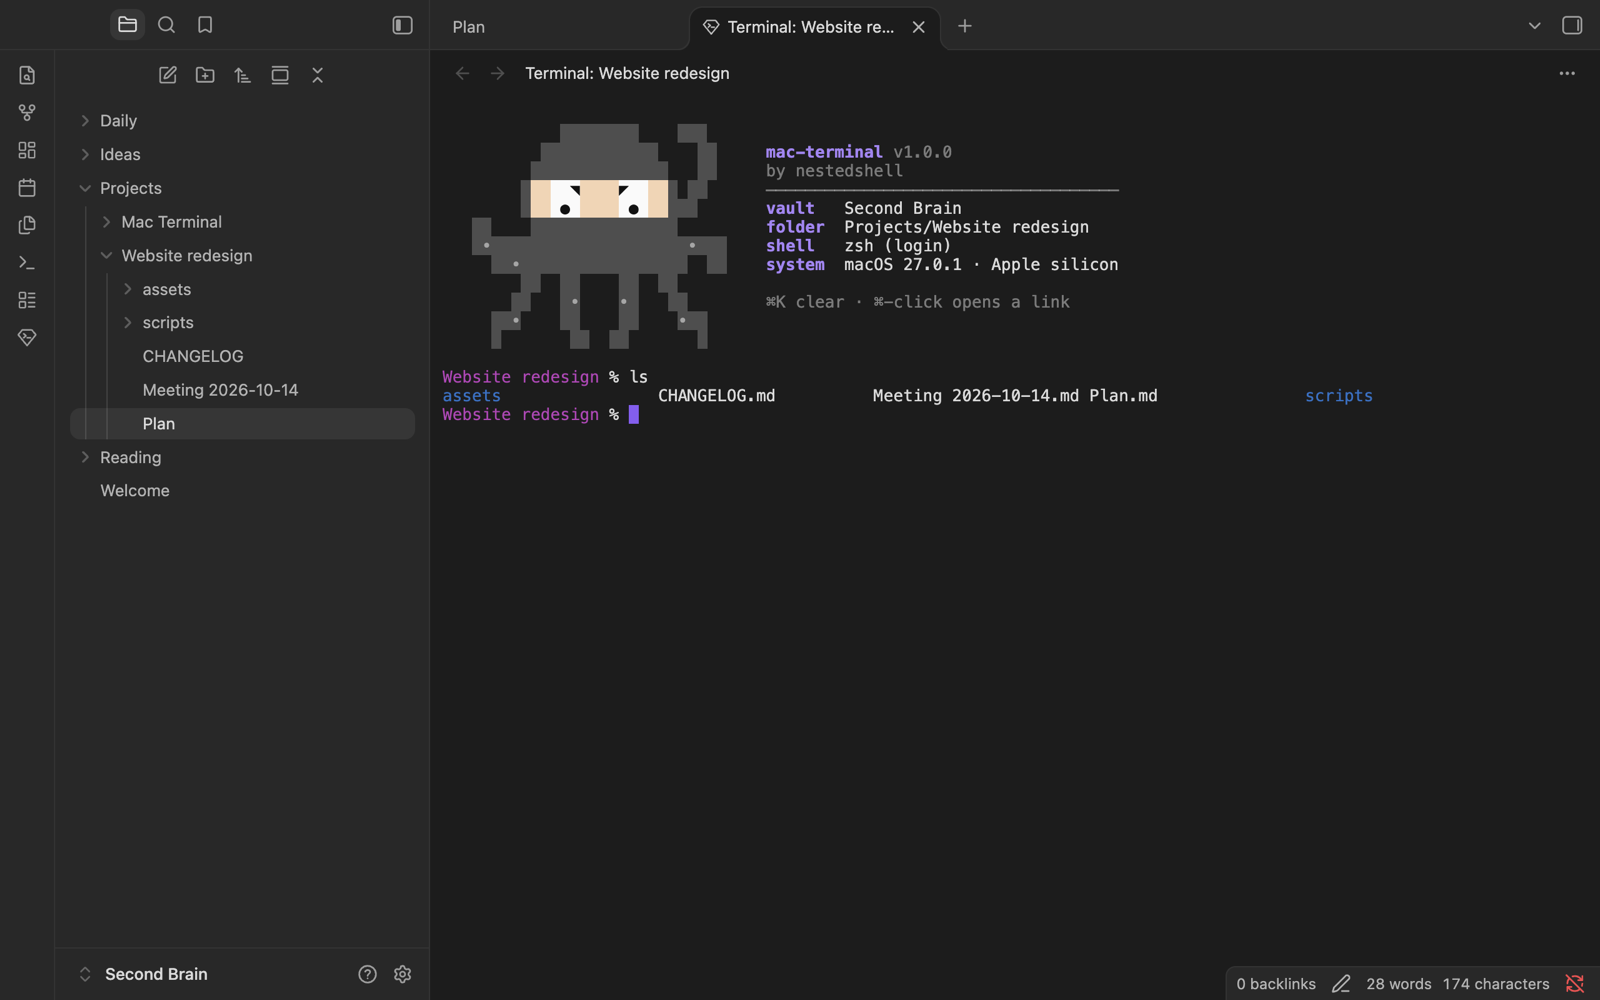
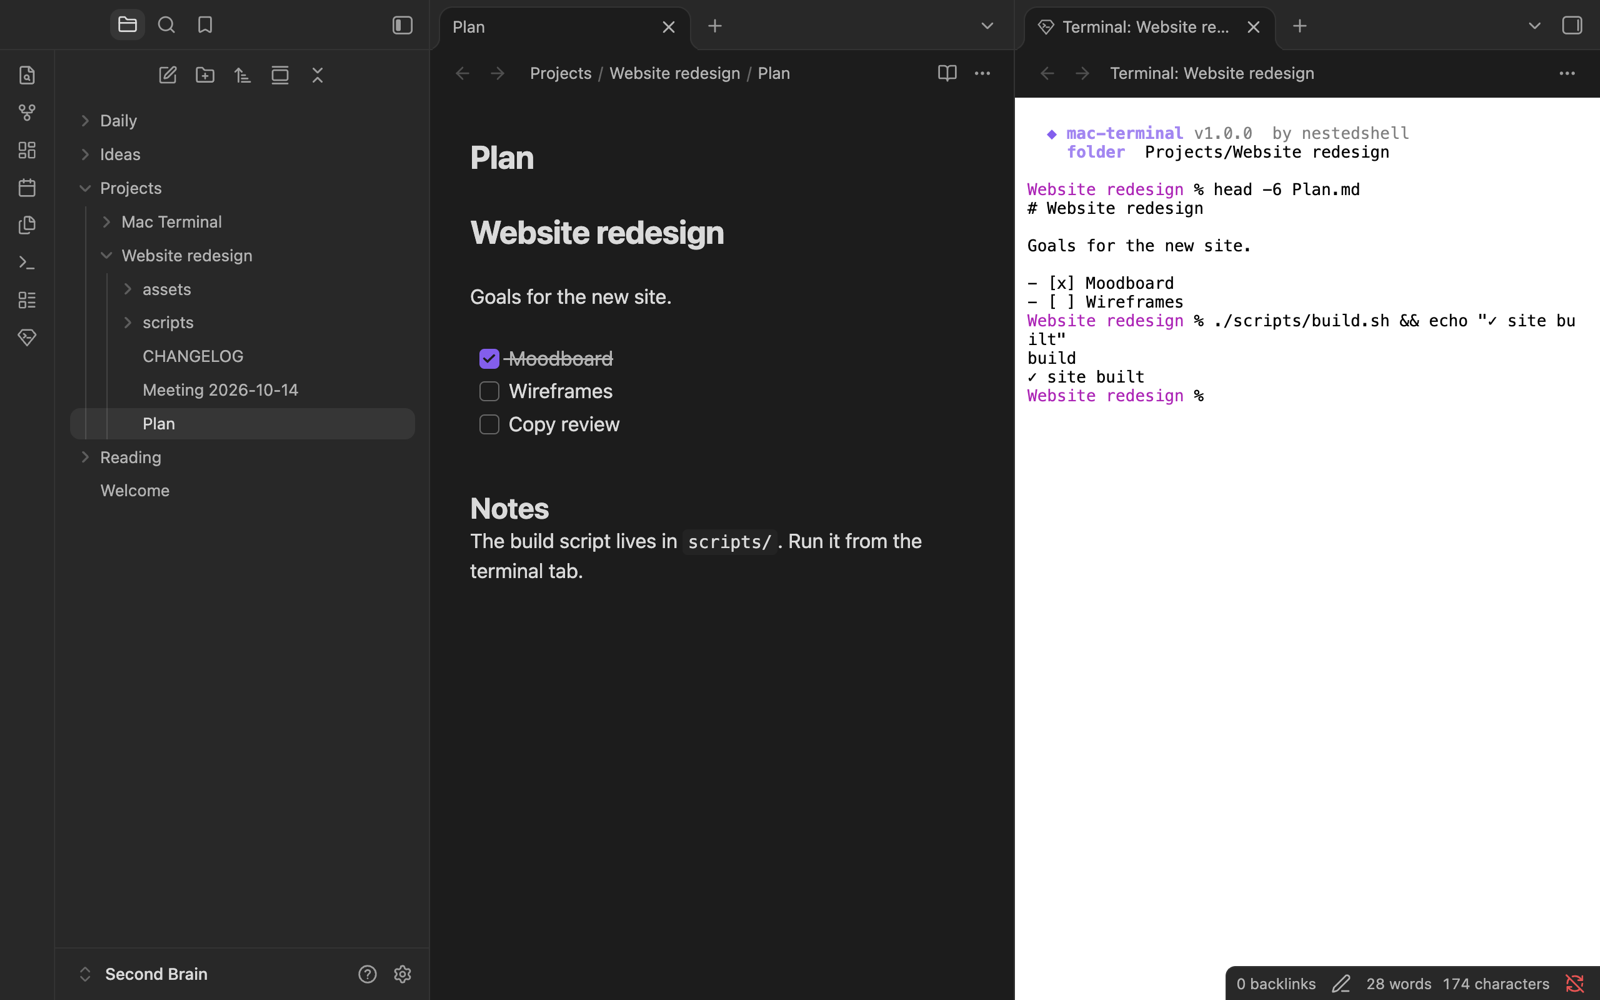
Open terminals in a split next to the note, add release packaging
- Terminals now open by default in a split beside the note, side by side
  or stacked (Settings > Open terminals in). A terminal opened from another
  terminal joins its tab group, and an empty pane is reused.
- npm run package builds dist/mac-terminal-<version>.zip for the Releases page.
- README: install by dragging the plugin folder, new screenshots, Obsidian
  Sync note.
- Helper errors explain how to fix a zip install, not only npm run install-plugin.
- Manifest description matches the split default.

diff --git a/src/main.ts b/src/main.ts
@@ -1,4 +1,4 @@
-import { addIcon, FileSystemAdapter, Notice, Platform, Plugin, TFile, TFolder, type TAbstractFile, type WorkspaceLeaf } from 'obsidian';
+import { addIcon, FileSystemAdapter, Notice, Platform, Plugin, TFile, TFolder, View, type SplitDirection, type TAbstractFile, type WorkspaceLeaf } from 'obsidian';
 import { randomUUID } from 'crypto';
 import * as path from 'path';
 import { toHex, parseColor } from './color';
@@ -135,15 +135,44 @@ export default class MacTerminalPlugin extends Plugin {
 		return this.openTerminal(this.app.workspace.getActiveFile()?.parent ?? this.app.vault.getRoot());
 	}
 
+	/**
+	 * The pane a new split goes next to: the active one, unless it sits in a sidebar
+	 * (the file explorer, after "Open in terminal"); then the note last worked on.
+	 */
+	private splitTarget(): WorkspaceLeaf | null {
+		const workspace = this.app.workspace;
+		const active = workspace.getActiveViewOfType(View)?.leaf ?? null;
+		if (active) {
+			const root = active.getRoot();
+			if (root !== workspace.leftSplit && root !== workspace.rightSplit) return active;
+		}
+		return workspace.getMostRecentLeaf();
+	}
+
+	/**
+	 * A split next to the note, without splitting the screen again and again: an empty
+	 * pane is reused, and next to a terminal the new one becomes a tab in its group.
+	 */
+	private splitLeaf(direction: SplitDirection): WorkspaceLeaf {
+		const workspace = this.app.workspace;
+		const target = this.splitTarget();
+		if (!target) return workspace.getLeaf('split', direction);
+		const type = target.view.getViewType();
+		if (type === 'empty') return target;
+		// The target is the most recent leaf, which is where Obsidian adds a new tab.
+		if (type === VIEW_TYPE) return workspace.getLeaf('tab');
+		return workspace.createLeafBySplit(target, direction);
+	}
+
 	async openTerminal(folder: TFolder, tag?: Tag): Promise<void> {
 		const workspace = this.app.workspace;
 		let leaf: WorkspaceLeaf;
 		switch (this.settings.openLocation) {
 			case 'right':
-				leaf = workspace.getLeaf('split', 'vertical');
+				leaf = this.splitLeaf('vertical');
 				break;
 			case 'below':
-				leaf = workspace.getLeaf('split', 'horizontal');
+				leaf = this.splitLeaf('horizontal');
 				break;
 			case 'window':
 				leaf = workspace.getLeaf('window');

diff --git a/src/pty.ts b/src/pty.ts
@@ -64,10 +64,10 @@ export function verifyHelper(pluginDir: string, expected: string = MT_PTY_SHA256
 	try {
 		data = readRegularFile(helper, HELPER_MAX_BYTES);
 	} catch {
-		throw new PtyError(`The terminal helper is missing (${HELPER_NAME}). Reinstall the plugin with "npm run install-plugin".`);
+		throw new PtyError(`The terminal helper (${HELPER_NAME}) is missing from the plugin folder. Copy the four files from the release zip into it again (Obsidian Sync doesn't sync the helper), or reinstall with "npm run install-plugin".`);
 	}
 	if (!/^[0-9a-f]{64}$/.test(expected) || sha256(data) !== expected) {
-		throw new PtyError(`The terminal helper (${HELPER_NAME}) doesn't match this build. Reinstall the plugin with "npm run install-plugin".`);
+		throw new PtyError(`The terminal helper (${HELPER_NAME}) doesn't match this version of the plugin. Copy the four files from the same release zip into the plugin folder, or reinstall with "npm run install-plugin".`);
 	}
 	try {
 		return stageHelper(data, expected, stageRoot);

diff --git a/src/settings.ts b/src/settings.ts
@@ -9,7 +9,7 @@ const TEXT = {
 	black: ['Black background', 'Pure black, like a classic terminal. Turn it off to go back to the color below.'],
 	background: ['Background color', 'Follows the Obsidian theme until you pick a color. Text color adjusts to stay readable.'],
 	banner: ['Startup art', 'Show the ninja octopus and the folder info when a terminal opens.'],
-	location: ['Open terminals in', 'Where new terminals appear.'],
+	location: ['Open terminals in', 'A split keeps the terminal next to the note you are working on.'],
 } as const;
 
 export class MacTerminalSettingTab extends PluginSettingTab {

diff --git a/src/settings-data.ts b/src/settings-data.ts
@@ -24,13 +24,14 @@ export const DEFAULT_SETTINGS: MacTerminalSettings = {
 	background: '',
 	blackBackground: false,
 	showBanner: true,
-	openLocation: 'tab',
+	openLocation: 'right',
 };
 
+/** In the order the settings list them: splits first, as they keep the note in view. */
 export const LOCATIONS: Record<OpenLocation, string> = {
+	right: 'Split to the right (side by side)',
+	below: 'Split below (stacked)',
 	tab: 'New tab',
-	right: 'Split to the right',
-	below: 'Split below',
 	window: 'New window',
 };
 

diff --git a/README.md b/README.md
@@ -1,11 +1,77 @@
 # Mac Terminal for Obsidian
 
-Open a real terminal inside Obsidian, already in the folder you are working in.
-One thing, done properly: your own login shell (zsh, bash, fish…) in an Obsidian tab, with full colors, mouse support, and TUI apps like `vim`, `htop` or `claude`.
+A real terminal inside Obsidian, already in the folder you are working in.
 
-**macOS only.**
+Open your own login shell (zsh, bash, fish…) inside Obsidian with one click: it opens in a split right next to the note you are reading, already in that note's folder, with full colors, mouse support and full-screen apps like `vim`, `htop` or `claude`. Give each terminal the name of its project and a colored dot, switch to a black background, and choose whether terminals open side by side, stacked, in a tab or in their own window.
 
-![Mac Terminal in a tab, opened in the folder of the current note](docs/screenshots/hero.png)
+**macOS only** (Apple silicon and Intel, macOS 11 or later).
+
+![A note with a terminal next to it, opened in the note's folder](docs/screenshots/hero.png)
+
+## Features
+
+- **Opens where you work**: in a split next to your note (side by side or stacked, your choice), in the note's folder, the vault root, or any folder from the file explorer menu.
+- **Your real shell**: your login shell with your `PATH` and profile, the same one Terminal.app opens.
+- **Project names and colored dots** on terminal tabs, to find the right one at a glance.
+- **Looks like Obsidian**: colors and font follow your theme; optional black background; adjustable font size.
+- **Feels like a Mac terminal**: Option types characters as in any Mac app (so `@ # [ ] { }` work on an Italian keyboard), ⌘C, ⌘V, ⌘K and the other usual shortcuts work, ⌘-click opens links.
+- **Built carefully**: no native code inside Obsidian, a verified helper, and protections against hostile output, pastes and file names (see [Security](#security)).
+
+![Three terminals, each with its project name and colored dot, on a black background](docs/screenshots/projects.png)
+
+## Install
+
+Requirements: macOS 11 or later and Obsidian 1.7.2 or later.
+
+### With the plugin folder (recommended)
+
+1. Get the `mac-terminal` folder: download `mac-terminal-<version>.zip` from the [latest release](https://github.com/nestedshell/mac-terminal/releases/latest) and double-click it to unzip. (Or build it yourself, see below.)
+2. In Obsidian, open **Settings → Community plugins** and turn community plugins on if they are off.
+3. Next to **Installed plugins**, click the folder icon: Finder opens your vault's plugins folder.
+4. Drag the `mac-terminal` folder into it. You should end up with:
+
+   ```
+   Your Vault/
+   └── .obsidian/
+       └── plugins/
+           └── mac-terminal/
+               ├── main.js
+               ├── manifest.json
+               ├── mt-pty
+               └── styles.css
+   ```
+
+5. Back in Obsidian, click the refresh icon next to **Installed plugins** and enable **Mac Terminal**.
+
+   ![Mac Terminal enabled in Settings, Community plugins](docs/screenshots/install.png)
+
+6. Click the gem icon in the left ribbon, or run **Open terminal in current folder** from the command palette (⌘P).
+
+You can also do it all in Finder: the plugins folder is `.obsidian/plugins` inside your vault (press **⌘⇧.** to show hidden folders).
+
+**Updating:** copy the four new files into the existing `mac-terminal` folder, replacing the old ones, then reload Obsidian (⌘P → *Reload app without saving*). Don't replace the whole folder: it also holds your settings (`data.json`).
+
+**Uninstalling:** disable the plugin, then delete the `mac-terminal` folder.
+
+**About macOS security:** `mt-pty`, the small helper that runs the terminal, is not notarized by Apple. You don't need to change any security setting: the plugin checks the helper against the fingerprint (SHA-256) built into `main.js` and runs its own verified copy. If you open `mt-pty` yourself from Finder, macOS says it can't verify it; that is expected and harmless.
+
+### From source
+
+Also needs Node.js 20 or later and the Xcode Command Line Tools (`xcode-select --install`), which compile the helper.
+
+```sh
+git clone https://github.com/nestedshell/mac-terminal.git
+cd mac-terminal
+npm install
+npm run build
+npm run install-plugin -- "/path/to/your/vault" --enable
+```
+
+Then, in Obsidian: **Settings → Community plugins**, turn community plugins on if needed, and enable **Mac Terminal**. If Obsidian was already open on that vault, reload it first (⌘P → *Reload app without saving*).
+
+`install-plugin` keeps your settings when you update. Without `--enable` it only copies the files, and you enable the plugin yourself. `npm run package` builds the zip for the Releases page into `dist/`.
+
+The plugin can't come from the Obsidian community directory, because that directory only distributes JavaScript and the terminal needs its native helper.
 
 ## Opening a terminal
 
@@ -20,17 +86,15 @@ Other commands: **Set name and color of this terminal** and **Toggle black backg
 
 ![The "Open in terminal" entry in the file explorer menu](docs/screenshots/menu.png)
 
-Terminals open in a new tab by default. You can also open them in a split, or in a new window, and drag them around like any other tab: moving a tab to another window keeps the shell running and the screen intact, even with `vim` or `htop` open.
+Terminals open in a split next to the note you are working on: side by side by default, or stacked below it (**Settings → Open terminals in**). A terminal opened while another terminal is active joins it as a tab, so the screen isn't split again and again, and an empty pane is simply reused. You can also choose a new tab or a new window, and drag terminals around like any other tab: moving one to another window keeps the shell running and the screen intact, even with `vim` or `htop` open.
 
 Terminal tabs are saved with your workspace, together with their name and color. After a restart they come back with the startup art, and the shell starts when you press Enter.
 
-![A note and a terminal side by side](docs/screenshots/split.png)
+![A terminal stacked below a note](docs/screenshots/stacked.png)
 
 ## Name and color
 
 Give each terminal the name of its project and a colored dot, to find it at a glance among your tabs. Right-click inside the terminal (or on its tab) and choose **Name and color…**. The name replaces the folder name in the tab, and the dot shows up in the tab, in the header and in the startup art.
-
-![Three terminals, each with its project name and colored dot, on a black background](docs/screenshots/projects.png)
 
 A new terminal opened from a named one (with **Open terminal in current folder**) keeps its name and color. The colors come from your Obsidian theme, so they match the rest of the app.
 
@@ -44,7 +108,7 @@ A new terminal opened from a named one (with **Open terminal in current folder**
 - **Black background**: pure black, like a classic terminal. Turn it off and the color below comes back. Also in the terminal's right-click menu and in the command palette.
 - **Background color**: follows the Obsidian theme by default, or pick any color. The text color adapts to stay readable.
 - **Startup art**: the nestedshell ninja octopus and the folder info shown when a terminal opens (a compact one-liner in narrow panes).
-- **Open terminals in**: new tab, split right, split below, or new window.
+- **Open terminals in**: split to the right (side by side, the default), split below (stacked), new tab, or new window.
 
 Changes apply to open terminals immediately. Light themes get a light ANSI palette:
 
@@ -70,24 +134,6 @@ While the terminal has focus, keys go to the shell, including Esc, Ctrl+C, Ctrl+
 Right-click opens a menu with Copy, Paste, Select all, Clear, Name and color, and Black background. Dropping files from Finder, or notes from the Obsidian file explorer, types their quoted paths.
 
 Typing `exit` (or Ctrl+D) closes the tab. If the shell is killed or ends on its own, the tab stays open with the reason; press Enter to start a new shell in the same folder.
-
-## Install
-
-Requirements: macOS 11 or later, Obsidian 1.7.2 or later, Node.js 20+, and the Xcode Command Line Tools (`xcode-select --install`), which compile the small terminal helper.
-
-```sh
-git clone https://github.com/nestedshell/mac-terminal.git
-cd mac-terminal
-npm install
-npm run build
-npm run install-plugin -- "/path/to/your/vault" --enable
-```
-
-Then, in Obsidian: **Settings → Community plugins**, turn community plugins on if needed, and enable **Mac Terminal**. If Obsidian was already open on that vault, reload it first (⌘P → *Reload app without saving*).
-
-`install-plugin` keeps your settings when you update. Without `--enable` it only copies the files, and you enable the plugin yourself.
-
-The plugin can't come from the Obsidian community directory, because that directory only distributes JavaScript and the terminal needs its native helper.
 
 ## How it works
 
@@ -129,6 +175,7 @@ The plugin doesn't modify Obsidian or its libraries and patches no global object
 npm run dev        # rebuild on change
 npm run check      # typecheck, tests, build
 npm test           # unit and integration tests (they compile mt-pty and drive real shells)
+npm run package    # build and zip the plugin folder into dist/mac-terminal-<version>.zip
 ```
 
 | Path | What it is |
@@ -141,7 +188,7 @@ npm test           # unit and integration tests (they compile mt-pty and drive r
 | `src/banner.ts`, `src/theme.ts`, `src/icon.ts` | Startup art, colors, icon |
 | `src/tag.ts`, `src/tag-modal.ts` | Name and color of a terminal |
 | `src/guards.ts` | Limits on escape sequences that would freeze the terminal |
-| `scripts/build.mjs`, `scripts/install.mjs` | Build into `dist/mac-terminal`, install into a vault |
+| `scripts/build.mjs`, `scripts/install.mjs`, `scripts/package.mjs` | Build into `dist/mac-terminal`, install into a vault, zip for release |
 
 The build also patches one line of xterm.js: it detects Node.js-like environments and then ignores the Mac, which would turn Option into Meta. The build stops if a future xterm version changes that line.
 
@@ -149,6 +196,7 @@ The build also patches one line of xterm.js: it detects Node.js-like environment
 
 - After *Reload app*, the helper processes of terminals that were open remain as inactive "zombie" entries (no CPU, no memory) until Obsidian quits. Their shells have already been closed.
 - Obsidian uses native macOS menus by default; the right-click menu of the terminal follows that setting.
+- Obsidian Sync doesn't sync `mt-pty` (it syncs only `main.js`, `manifest.json`, `styles.css` and `data.json`). On each Mac, copy the plugin folder yourself; if the helper is missing, the terminal says so.
 
 ## License
 
